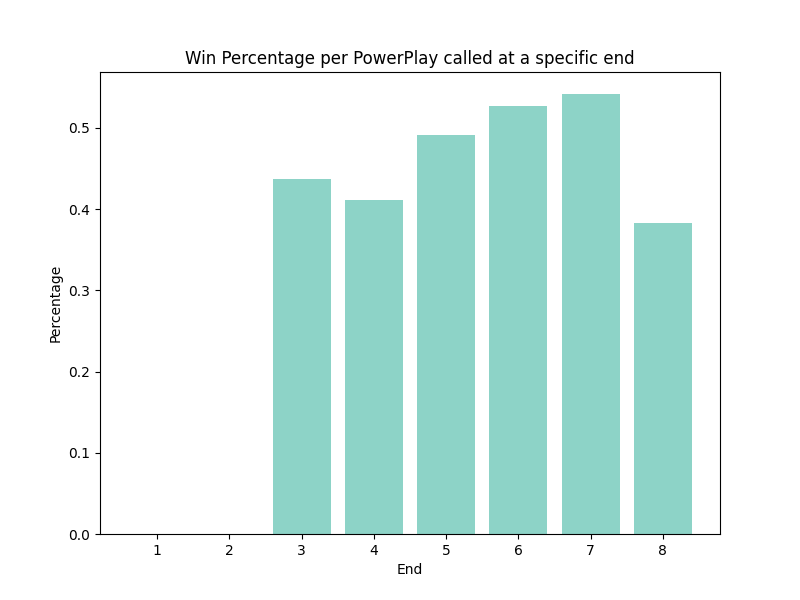
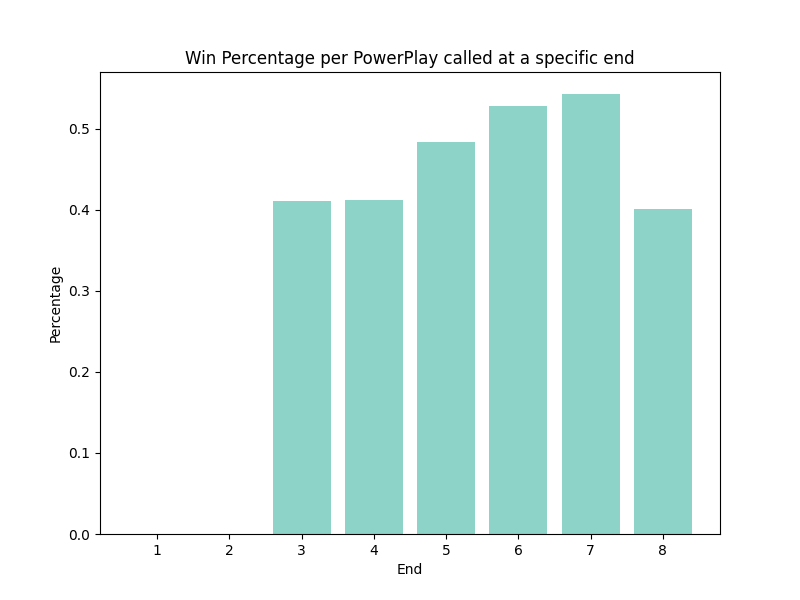
all

diff --git a/figures/graphs.py b/figures/graphs.py
@@ -1,7 +1,7 @@
 import matplotlib.pyplot as plt
 import json
 
-with open('/Users/brentkong/Documents/curling/figures/simulations/frequency_dict_100000.json', 'r') as f:
+with open('/Users/brentkong/Documents/curling/figures/simulations/frequency_dict_100000_new.json', 'r') as f:
     data = json.load(f)
 
 frequency_dict = data[0]
@@ -9,10 +9,12 @@ wins_dict = data[1]
 loss_dict = data[2]
 draws_dict = data[3]
 hammer_analysis = data[4]
-hammer_summary = data[5]
-by_margin_raw = data[6]["by_margin"]
+hammer_summary_6 = data[5]
+by_margin_raw_6 = data[6]["by_margin"]
+hammer_summary_7 = data[7]
+by_margin_raw_7 = data[8]["by_margin"]
 matches = frequency_dict.pop("matches")
-mode = "win"
+mode = "percent_7"
 
 if mode == "frequency": 
     categories = list(frequency_dict.keys())
@@ -78,8 +80,8 @@ elif mode == "hammer":
     plt.tight_layout()
     plt.savefig(f'/Users/brentkong/Documents/curling/figures/graphs/hammer_vs_no_hammer_pie_{matches}.png')
     plt.show()
-elif mode == "by_end":
-    by_margin = {int(k): int(v) for k, v in by_margin_raw.items()}
+elif mode == "by_end_6":
+    by_margin = {int(k): int(v) for k, v in by_margin_raw_6.items()}
 
     margins = []
     for margin, count in by_margin.items():
@@ -91,31 +93,70 @@ elif mode == "by_end":
         bins=range(min(margins), max(margins) + 2),
         align="left"
     )
-    plt.xlabel("Score margin after 7 ends (hammer team)")
+    plt.xlabel("Score margin after 5 ends (hammer team)")
     plt.ylabel("Frequency")
-    plt.title("Histogram of Score Margin After 7 Ends (Hammer Team)")
+    plt.title("Histogram of Score Margin After 5 Ends (Hammer Team)")
     plt.tight_layout()
-    plt.savefig(f'/Users/brentkong/Documents/curling/figures/graphs/score_margin_{matches}.png')
+    plt.savefig(f'/Users/brentkong/Documents/curling/figures/graphs/score_margin_6_{matches}.png')
     plt.show()
 
-else:
+elif mode == "percent_6":
     labels = [
-        "Leading after 7",
-        "Tied after 7",
-        "Trailing after 7"
+        "Leading after 5",
+        "Tied after 5",
+        "Trailing after 5"
     ]
     sizes = [
-        hammer_summary["hammer_leading_after_7"],
-        hammer_summary["hammer_tied_after_7"],
-        hammer_summary["hammer_trailing_after_7"]
+        hammer_summary_6["hammer_leading_after_5"],
+        hammer_summary_6["hammer_tied_after_5"],
+        hammer_summary_6["hammer_trailing_after_5"]
     ]
 
     plt.figure()
     plt.pie(sizes, labels=labels, autopct='%1.1f%%', startangle=90)
-    plt.title("End 8 Hammer Team Status After 7 Ends")
+    plt.title("End 6 Hammer Team Status After 5 Ends")
     plt.axis("equal") 
     plt.tight_layout()
-    plt.savefig(f'/Users/brentkong/Documents/curling/figures/graphs/win_after_7_{matches}.png')
+    plt.savefig(f'/Users/brentkong/Documents/curling/figures/graphs/win_after_5_{matches}.png')
+    plt.show()
+elif mode == "by_end_7":
+    by_margin = {int(k): int(v) for k, v in by_margin_raw_7.items()}
+
+    margins = []
+    for margin, count in by_margin.items():
+        margins.extend([margin] * count)
+
+    plt.figure()
+    plt.hist(
+        margins,
+        bins=range(min(margins), max(margins) + 2),
+        align="left"
+    )
+    plt.xlabel("Score margin after 6 ends (hammer team)")
+    plt.ylabel("Frequency")
+    plt.title("Histogram of Score Margin After 6 Ends (Hammer Team)")
+    plt.tight_layout()
+    plt.savefig(f'/Users/brentkong/Documents/curling/figures/graphs/score_margin_7_{matches}.png')
+    plt.show()
+
+elif mode == "percent_7":
+    labels = [
+        "Leading after 6",
+        "Tied after 6",
+        "Trailing after 6"
+    ]
+    sizes = [
+        hammer_summary_7["hammer_leading_after_6"],
+        hammer_summary_7["hammer_tied_after_6"],
+        hammer_summary_7["hammer_trailing_after_6"]
+    ]
+
+    plt.figure()
+    plt.pie(sizes, labels=labels, autopct='%1.1f%%', startangle=90)
+    plt.title("End 7 Hammer Team Status After 6 Ends")
+    plt.axis("equal") 
+    plt.tight_layout()
+    plt.savefig(f'/Users/brentkong/Documents/curling/figures/graphs/win_after_6_{matches}.png')
     plt.show()
 
 

diff --git a/code/run_mcts.py b/code/run_mcts.py
@@ -19,14 +19,27 @@ loss_dict = {end: 0 for end in range(1, 9)}
 hammer_track = {"wins": 0, "draws": 0, "loss": 0}
 no_hammer_track = {"wins": 0, "draws": 0, "loss": 0}
 
-pp8_lead_check = {
-    "pp8_total": 0,
-    "hammer_leading_after_7": 0,
-    "hammer_tied_after_7": 0,
-    "hammer_trailing_after_7": 0
+
+pp5_lead_check = {
+    "pp6_total": 0,
+    "hammer_leading_after_5": 0,
+    "hammer_tied_after_5": 0,
+    "hammer_trailing_after_5": 0
 }
 
-pp8_lead_margin = {
+pp5_lead_margin = {
+    "total": 0,
+    "by_margin": {} 
+}
+
+pp6_lead_check = {
+    "pp7_total": 0,
+    "hammer_leading_after_6": 0,
+    "hammer_tied_after_6": 0,
+    "hammer_trailing_after_6": 0
+}
+
+pp6_lead_margin = {
     "total": 0,
     "by_margin": {} 
 }
@@ -54,21 +67,38 @@ for _ in range(matches):
         best_action, _ = mcts.search(state)
         
         if best_action == "PP" and powerplays_remaining[root_team] > 0:
-            if end == 8:
-                pp8_lead_check["pp8_total"] += 1
+            if end == 6:
+                pp5_lead_check["pp6_total"] += 1
 
                 lead = int(current_score[root_team] - current_score[3 - root_team])
 
                 if lead > 0:
-                    pp8_lead_check["hammer_leading_after_7"] += 1
+                    pp5_lead_check["hammer_leading_after_5"] += 1
                 elif lead < 0:
-                    pp8_lead_check["hammer_trailing_after_7"] += 1
+                    pp5_lead_check["hammer_trailing_after_5"] += 1
                 else:
-                    pp8_lead_check["hammer_tied_after_7"] += 1
+                    pp5_lead_check["hammer_tied_after_5"] += 1
 
-                pp8_lead_margin["total"] += 1
-                pp8_lead_margin["by_margin"][lead] = (
-                    pp8_lead_margin["by_margin"].get(lead, 0) + 1
+                pp5_lead_margin["total"] += 1
+                pp5_lead_margin["by_margin"][lead] = (
+                    pp5_lead_margin["by_margin"].get(lead, 0) + 1
+                )
+
+            if end == 7:
+                pp6_lead_check["pp7_total"] += 1
+
+                lead = int(current_score[root_team] - current_score[3 - root_team])
+
+                if lead > 0:
+                    pp6_lead_check["hammer_leading_after_6"] += 1
+                elif lead < 0:
+                    pp6_lead_check["hammer_trailing_after_6"] += 1
+                else:
+                    pp6_lead_check["hammer_tied_after_6"] += 1
+
+                pp6_lead_margin["total"] += 1
+                pp6_lead_margin["by_margin"][lead] = (
+                    pp6_lead_margin["by_margin"].get(lead, 0) + 1
                 )
 
             pp_usage[root_team] = end
@@ -121,8 +151,8 @@ hammer_analysis = {
     "no_hammer_start": no_hammer_track
 }
 
-with open(f'/Users/brentkong/Documents/curling/figures/simulations/frequency_dict_{matches}.json', 'w') as f:
-    json.dump([frequency_dict, wins_dict, loss_dict, draws_dict, hammer_analysis, pp8_lead_check, pp8_lead_margin], f, indent=4) 
+with open(f'/Users/brentkong/Documents/curling/figures/simulations/frequency_dict_{matches}_new.json', 'w') as f:
+    json.dump([frequency_dict, wins_dict, loss_dict, draws_dict, hammer_analysis, pp5_lead_check, pp5_lead_margin, pp6_lead_check, pp6_lead_margin], f, indent=4) 
 
 
 
